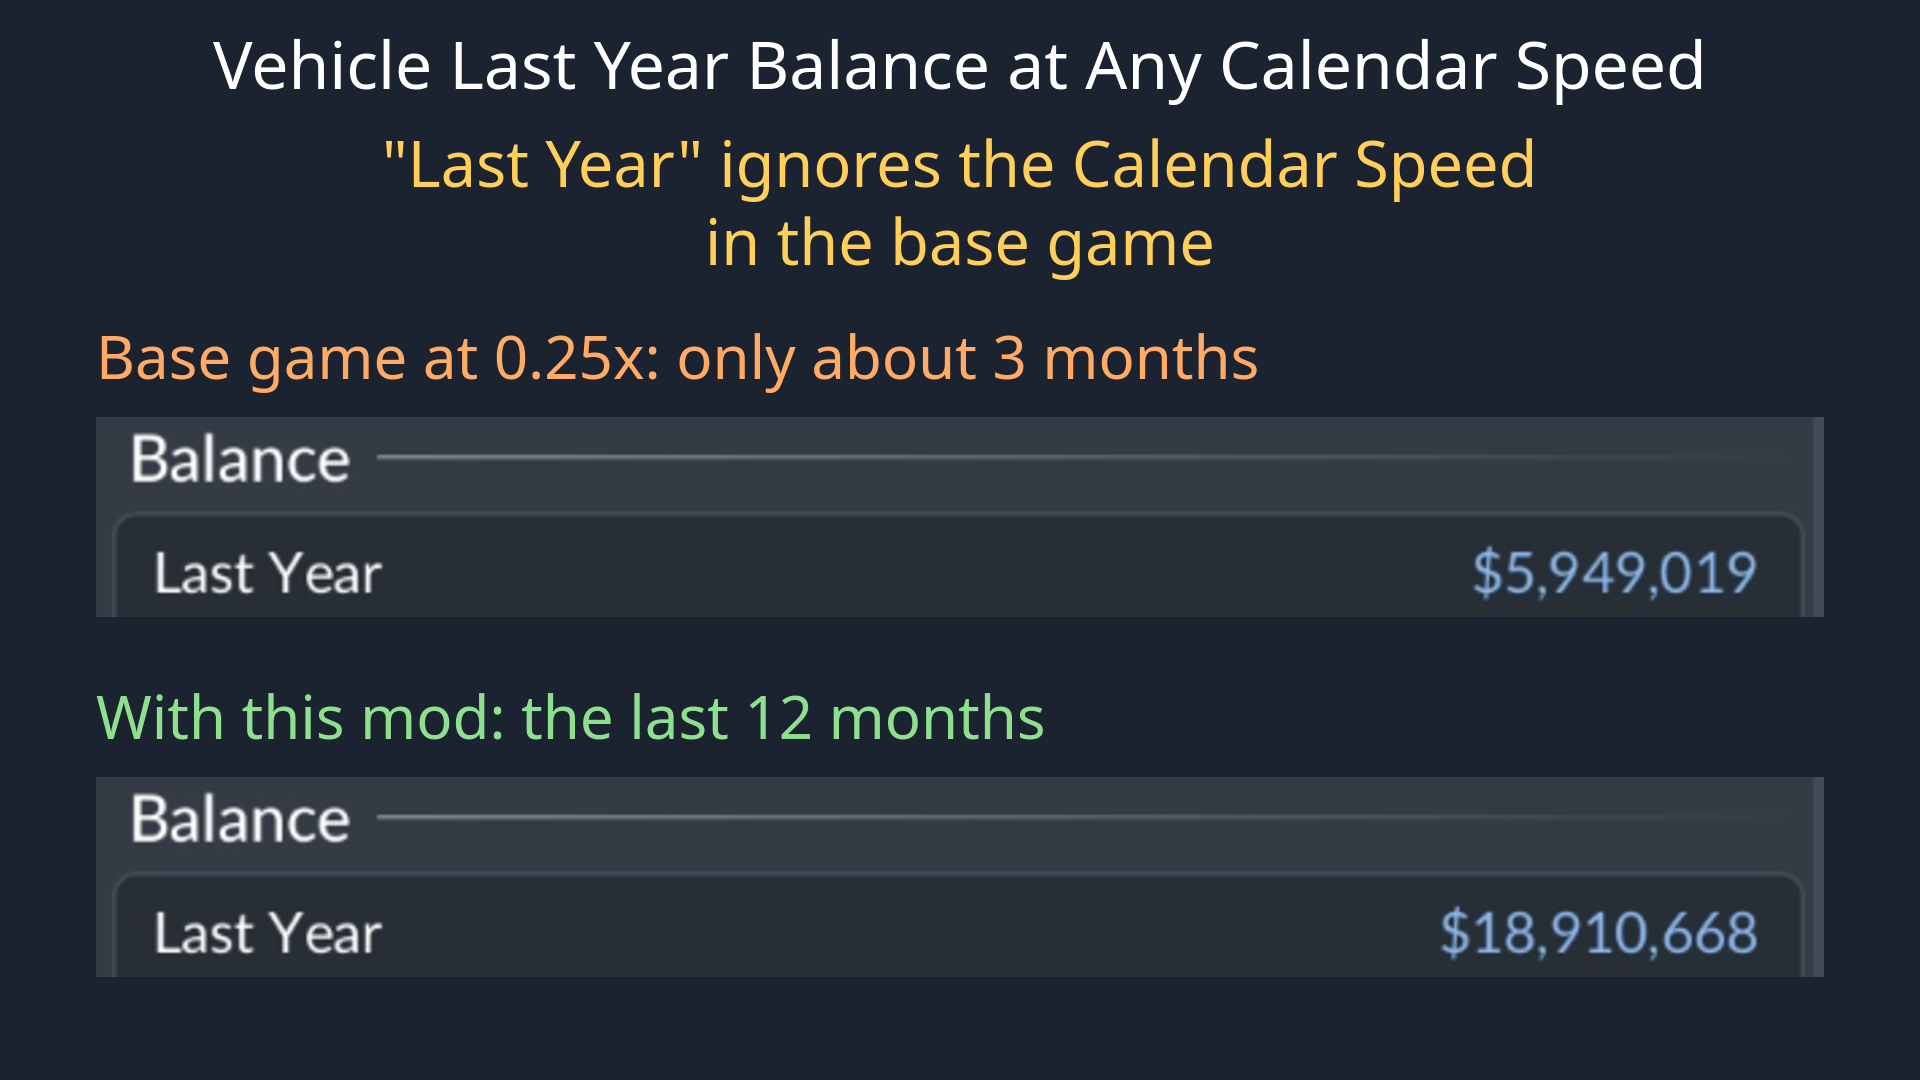
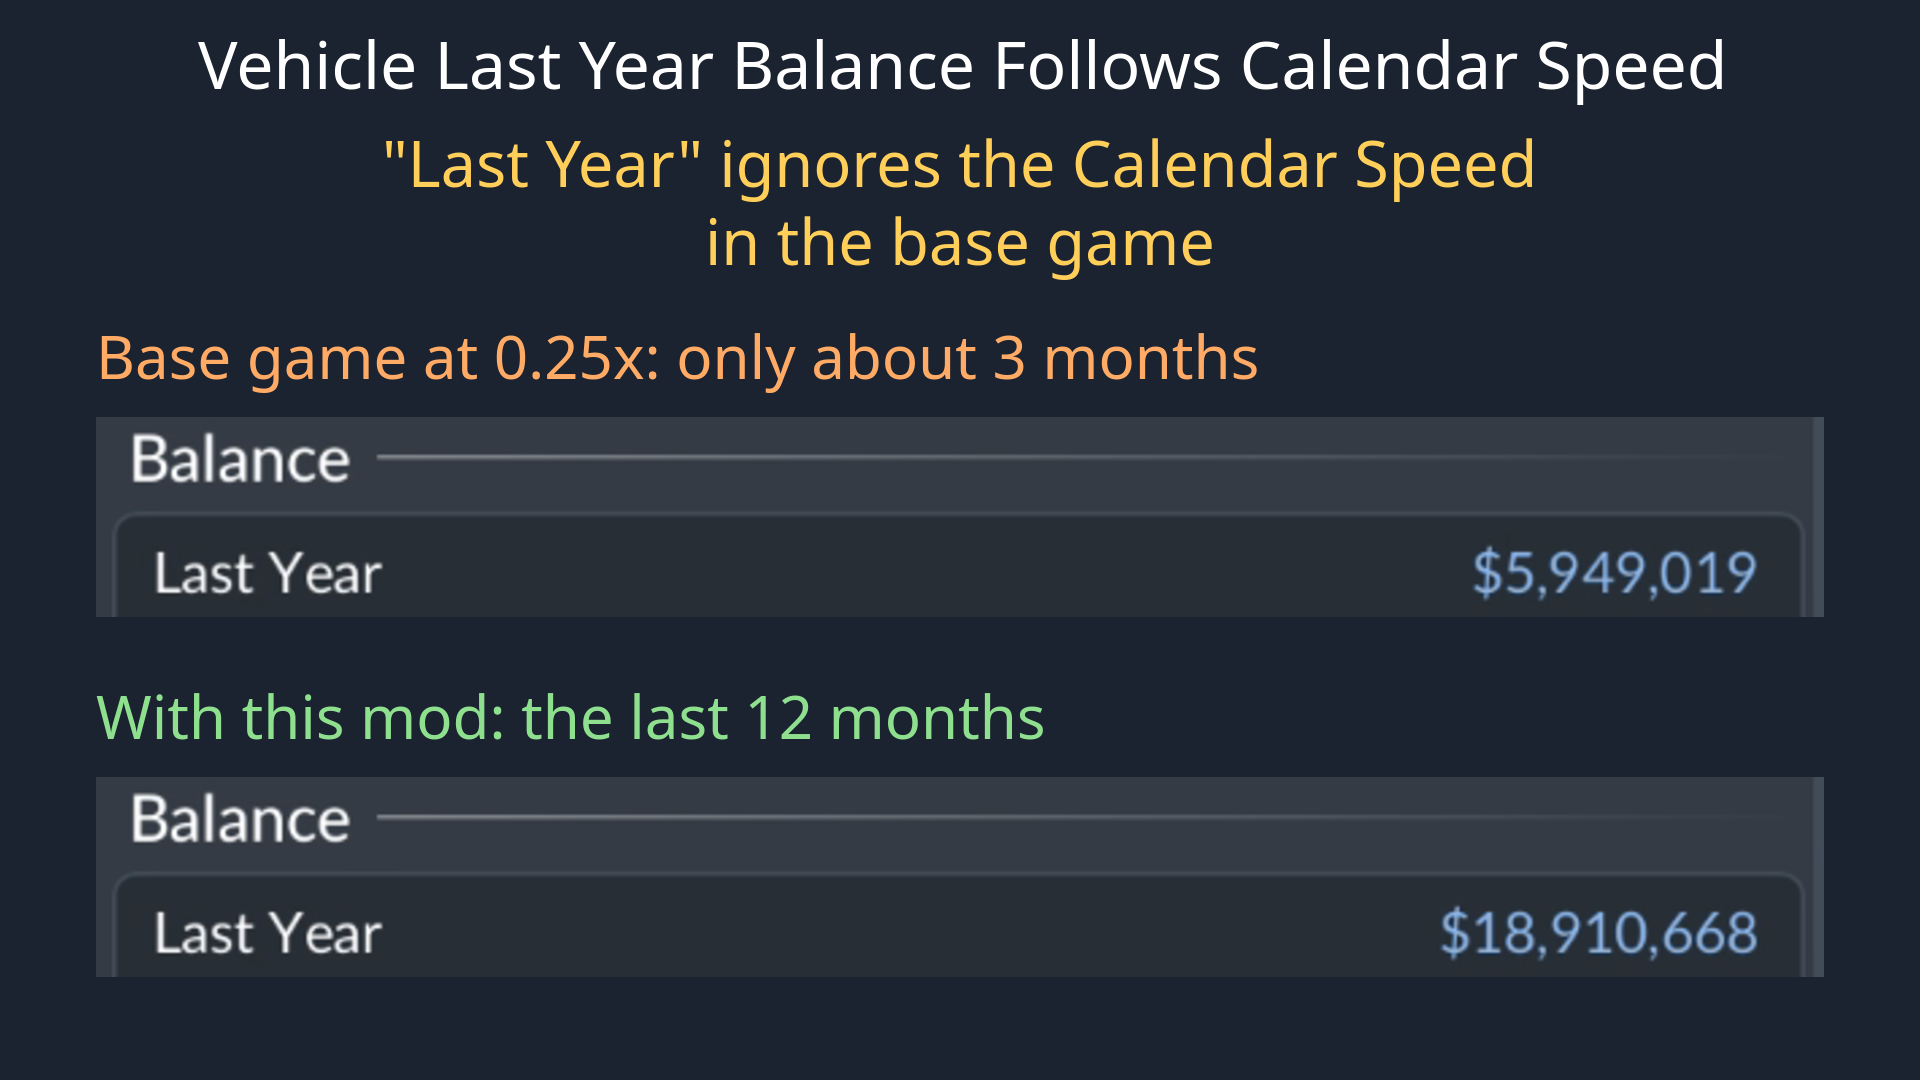
Retitle the cover and keep both languages in the mod.io summary
The cover still showed the old title "at Any Calendar Speed", the very
wording that read as if the mod ignored the speed; only the title line is
redrawn, in the same font, size and place.

A shorter English summary leaves room for the Japanese one within
mod.io's 250 bytes, so the summary is bilingual again. The Japanese title
now says what is summed ("...に合わせて集計") rather than only "合わせる".

Changed region(s): [[0.0938, 0.0306, 0.9062, 0.0917]]

diff --git a/tests/test_strings.py b/tests/test_strings.py
@@ -17,7 +17,7 @@ LANGS = ["en", "ja", "de", "es", "fr", "it", "ko", "nl", "pl", "pt_BR", "ru",
 UI_WORDS = ["Last Year", "Balance", "Statistics", "Vehicles",
             "Calendar Speed"]
 MOD_NAMES = {"en": "Vehicle Last Year Balance Follows Calendar Speed",
-             "ja": "車両の最終年の残高をカレンダー速度に合わせる"}
+             "ja": "車両の最終年の残高を、カレンダー速度に合わせて集計"}
 
 
 def load_strings():

diff --git a/docs/modio_description.md b/docs/modio_description.md
@@ -2,9 +2,7 @@
 
 The in-game uploader has no description field: this goes to the mod.io web page.
 
-**Summary:** The vehicle window's "Last Year" balance and the Statistics Balance column follow the calendar speed and sum the last 12 calendar months.
-
-**概要（日本語。mod.io の summary の欄は 250 バイトまでなので、欄には英語だけを入れる）:** 車両の「最終年」の残高と統計の残高の列を、カレンダー速度に合わせて暦の直近12か月で集計。
+**Summary:** The vehicle "Last Year" balance and the Statistics Balance column follow the calendar speed and sum the last 12 calendar months. / 車両の「最終年」と統計の残高を、カレンダー速度に合わせて暦の直近12か月で集計。
 
 ## English: Vehicle Last Year Balance Follows Calendar Speed
 
@@ -22,7 +20,7 @@ Display only: nothing is stored in the save, so adding and removing the mod are 
 
 Texts in all 13 game languages. License: MIT. Source code: https://github.com/hummer98/tpf3-vehicle-calendar-balance
 
-## 日本語: 車両の最終年の残高をカレンダー速度に合わせる
+## 日本語: 車両の最終年の残高を、カレンダー速度に合わせて集計
 
 **この MOD がすること：** 車両ウィンドウの「最終年」の残高と、「統計」ウィンドウの「車両」タブの「残高」の列を、「カレンダー速度」に合わせて、暦の直近12か月で集計します。
 

diff --git a/README.md b/README.md
@@ -147,7 +147,7 @@ the changelog disagree.
 
 ## 日本語
 
-**車両の最終年の残高をカレンダー速度に合わせる（Transport Fever 3）**
+**車両の最終年の残高を、カレンダー速度に合わせて集計（Transport Fever 3）**
 
 **この MOD がすること:** 車両ウィンドウの「**最終年**」の残高と、「**統計**」ウィンドウの「**車両**」タブの「**残高**」の列を、「**カレンダー速度**」に合わせて、暦の直近12か月で集計します。
 

diff --git a/CHANGELOG.md b/CHANGELOG.md
@@ -19,7 +19,7 @@ recorded here. The format follows
   the Calendar Speed here, and add when the mod's value matters: reading
   "Last Year" as a year's amount, and comparing a vehicle before and after a
   change of the calendar speed.
-- The mod.io summary is English only, to stay within 250 bytes.
+- The mod.io summary is shorter, to stay within 250 bytes.
 
 ## [1.0.0] - 2026-11-25
 
